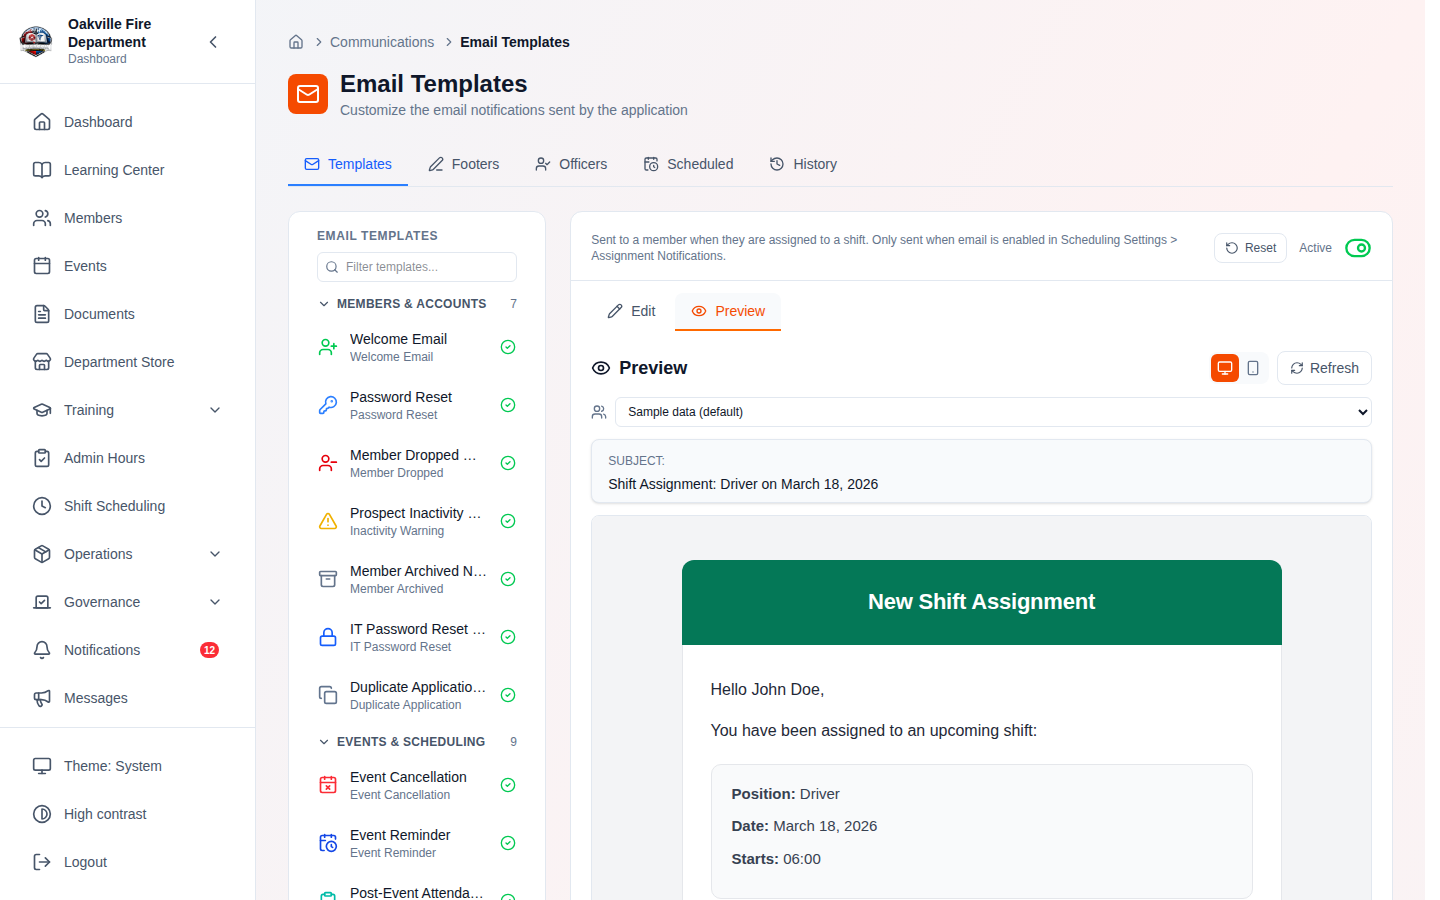
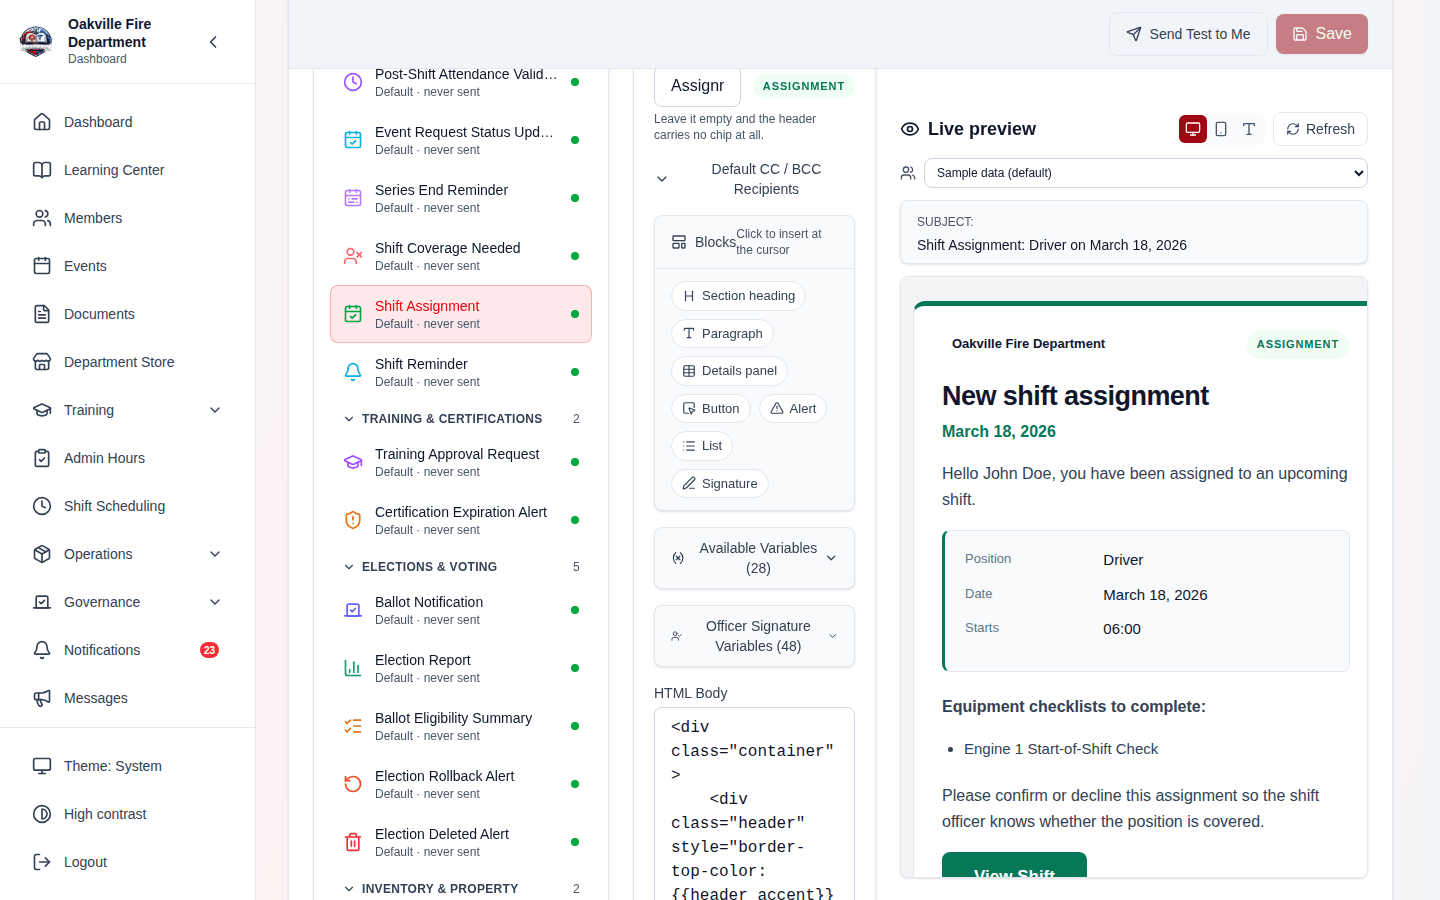
Repair the email-template shots, and correct the label the guide named
08-58 and 08-67 both clicked a Preview tab that no longer exists: the rendered
preview sits beside the editor now, selected by Desktop / Mobile / Plain-text
buttons. The send-test control also lost a word -- it reads "Send Test to Me",
not "Send Test Email to Me".

That second half was a documentation defect rather than only a broken shot.
Guide 08 named the old label three times, including a numbered step telling a
reader to switch to a tab that is gone and wait for a control to stop being
greyed out. Corrected, along with the alt text.

Claude-Session: https://claude.ai/code/session_017dLATfbBycfFBQChFBze9f

diff --git a/docs/training/08-admin-reports.md b/docs/training/08-admin-reports.md
@@ -1573,10 +1573,10 @@ This is useful when a template has been heavily customized and you want to start
 
 You can now send a test email to verify your template changes before they go live:
 
-1. Open the template and switch to the **Preview** tab — the button sits under
-   the rendered preview, not in the toolbar, and stays greyed out until a
-   preview has been generated
-2. Click **Send Test Email to Me**
+1. Open the template. The rendered preview sits beside the editor — there is
+   no longer a **Preview** tab to switch to, and the control is under that
+   preview rather than in the toolbar
+2. Click **Send Test to Me**
 3. The system sends what you are looking at — the current editor content,
    unsaved changes included — to **your own** address. There is no field for a
    different recipient
@@ -1585,7 +1585,7 @@ You can now send a test email to verify your template changes before they go liv
 Sending needs a working mail transport. On a department that has not configured
 one, the button reports the failure rather than a delivery.
 
-![Send Test Email to Me, under the rendered preview it sends](./images/08-58-template-send-test.png)
+![Send Test to Me, under the rendered preview it sends](./images/08-58-template-send-test.png)
 
 ### Template Search
 
@@ -1768,16 +1768,16 @@ because they apply to every template rather than to this one.
 Several of these are things a **recipient** was seeing, so they are worth knowing
 about even if you never open the template editor.
 
-| What was wrong                                                                                                                                        | Now                                                                        |
-| ----------------------------------------------------------------------------------------------------------------------------------------------------- | -------------------------------------------------------------------------- |
-| **Only the first paragraph of an email was styled.** Gmail strips the stylesheet, so this was the spacing most recipients actually saw                | Every paragraph is styled                                                  |
-| The inventory notice's removed-items list and the ballot eligibility summary's recipient list **arrived as visible angle brackets**                   | Rendered as the lists they are                                             |
-| Departments that had never opened the Email Templates screen received footers reading a literal **`{{organization_phone}}`**                          | Filled in — that path is the normal one until the screen is first opened   |
-| A member of the public who asked the department to attend their event got bare **"Reason:"** lines                                                    | Optional blocks appear only when there is something in them                |
-| The duplicate-application notice **printed its contact line twice**                                                                                   | Once                                                                       |
-| Three header colours and the small footer contact line **failed WCAG AA contrast** against their text                                                 | Corrected                                                                  |
-| **"Send Test Email to Me" reported success for an email nobody received** — it posted a blank recipient, SMTP rejected it, and the screen said 200 OK | Sends, or tells you why it did not                                         |
-| A backslash in a public contact's name **corrupted the event-request notice**                                                                         | Handled — and these sends now appear in Message History for the first time |
+| What was wrong                                                                                                                                  | Now                                                                        |
+| ----------------------------------------------------------------------------------------------------------------------------------------------- | -------------------------------------------------------------------------- |
+| **Only the first paragraph of an email was styled.** Gmail strips the stylesheet, so this was the spacing most recipients actually saw          | Every paragraph is styled                                                  |
+| The inventory notice's removed-items list and the ballot eligibility summary's recipient list **arrived as visible angle brackets**             | Rendered as the lists they are                                             |
+| Departments that had never opened the Email Templates screen received footers reading a literal **`{{organization_phone}}`**                    | Filled in — that path is the normal one until the screen is first opened   |
+| A member of the public who asked the department to attend their event got bare **"Reason:"** lines                                              | Optional blocks appear only when there is something in them                |
+| The duplicate-application notice **printed its contact line twice**                                                                             | Once                                                                       |
+| Three header colours and the small footer contact line **failed WCAG AA contrast** against their text                                           | Corrected                                                                  |
+| **"Send Test to Me" reported success for an email nobody received** — it posted a blank recipient, SMTP rejected it, and the screen said 200 OK | Sends, or tells you why it did not                                         |
+| A backslash in a public contact's name **corrupted the event-request notice**                                                                   | Handled — and these sends now appear in Message History for the first time |
 
 Three notices your department sends most often — **shift assignment**, **shift
 decline** and **shift reminder** — were listed on the Email Templates screen but
